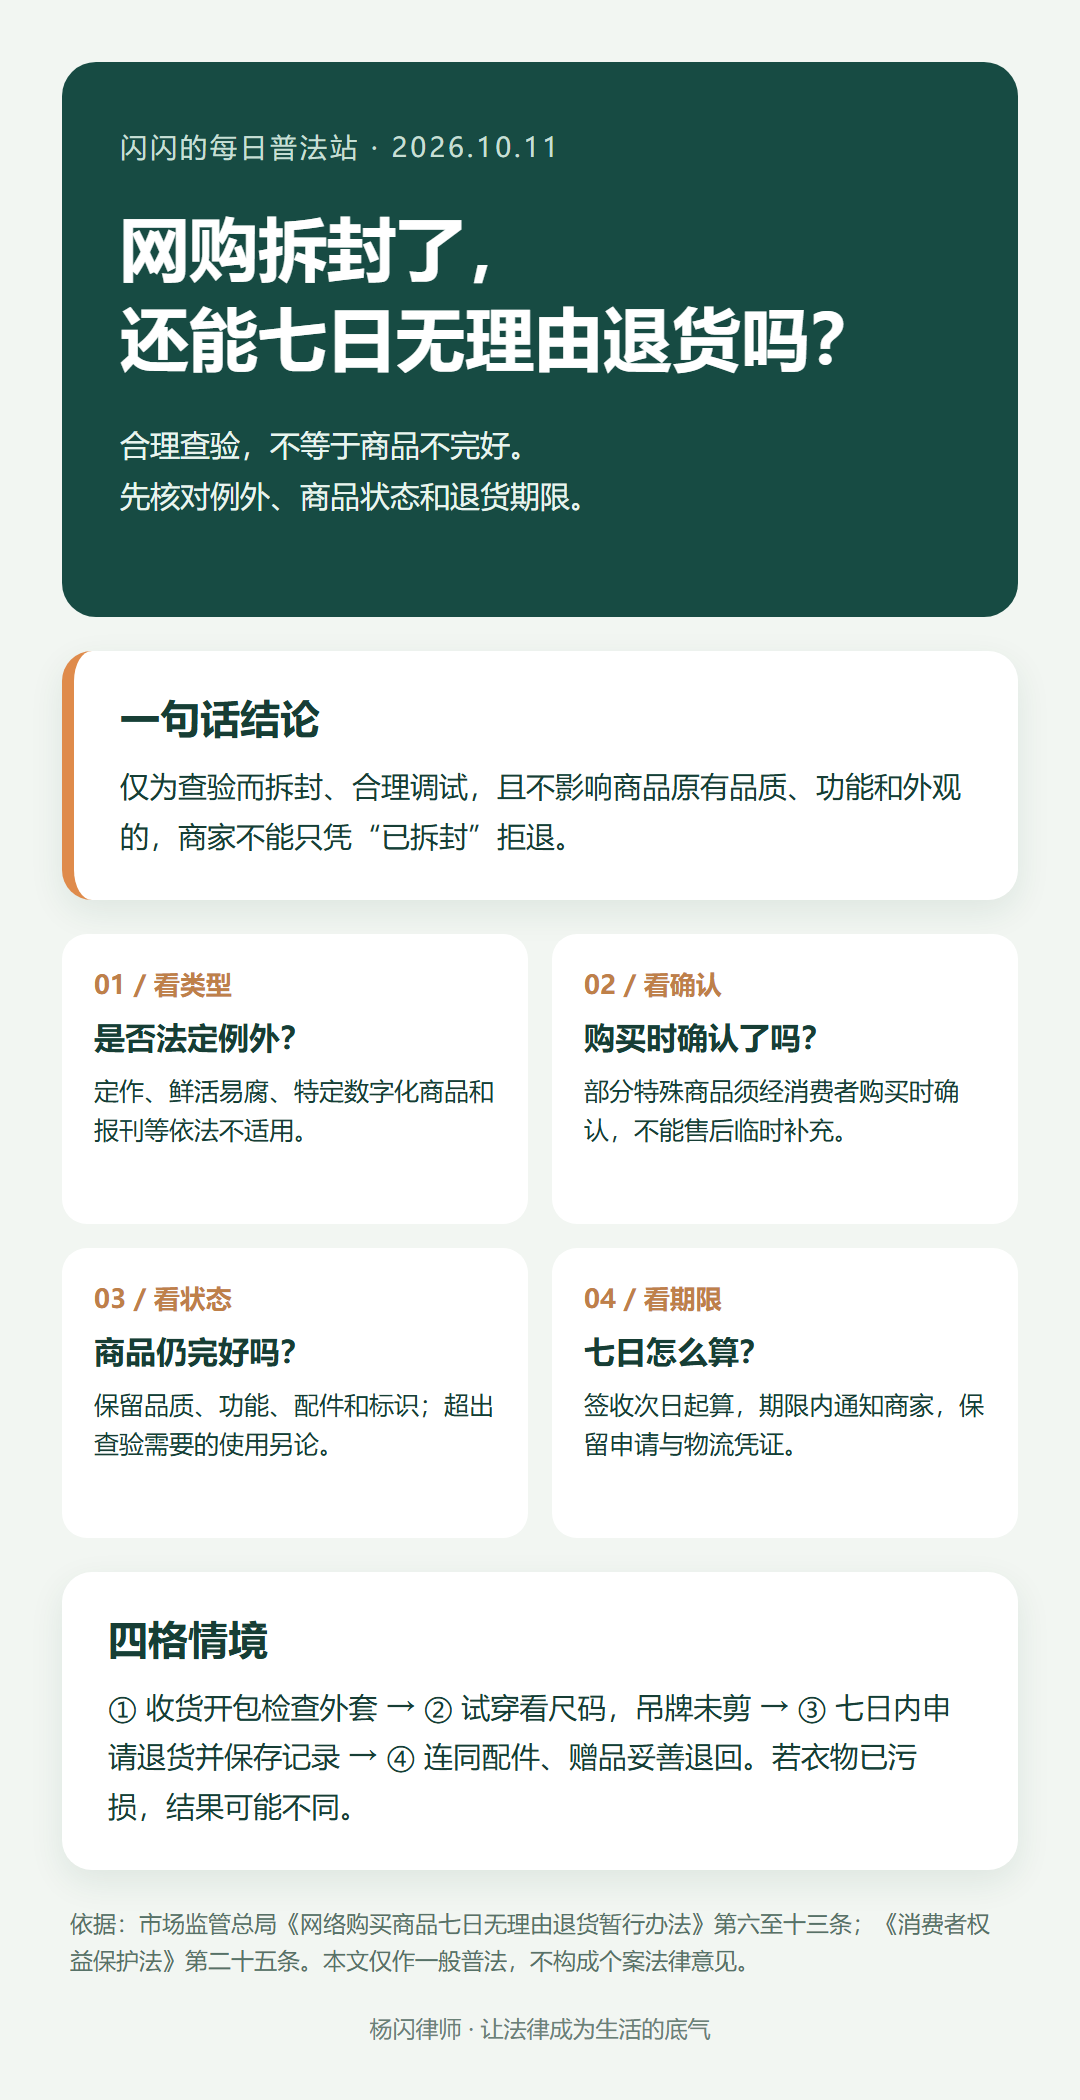
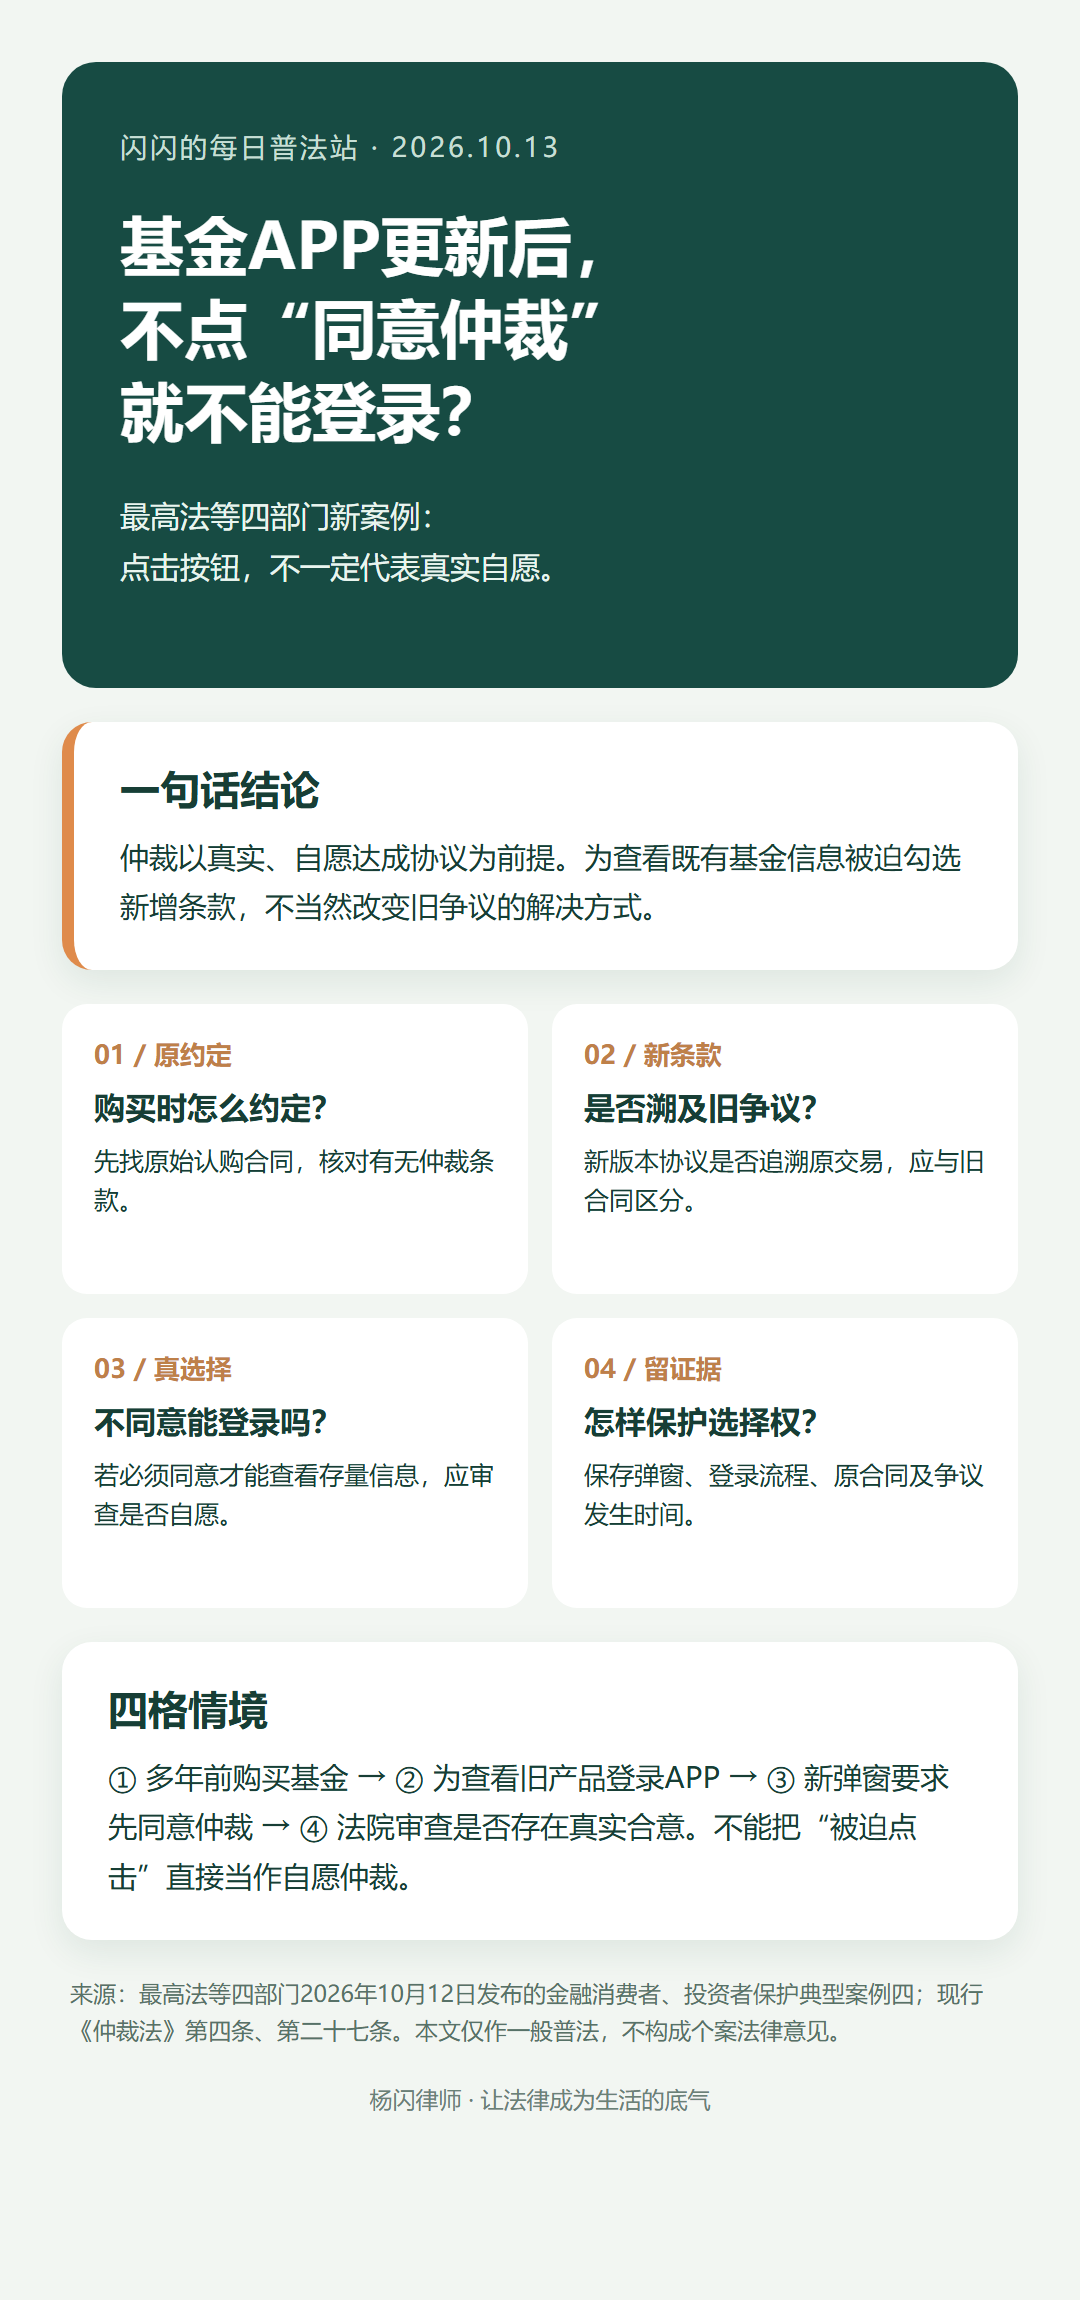
Publish 2026-10-13 arbitration consent explainer

diff --git a/index.html b/index.html
@@ -1,16 +1,13 @@
-<!doctype html>
-<html lang="zh-CN"><head><meta charset="utf-8"><meta name="viewport" content="width=device-width,initial-scale=1"><title>网购拆封了，还能七日无理由退货吗？</title></head>
-<body style="margin:0;background:#fff;color:#263238"><article style="max-width:677px;margin:auto;padding:24px 18px;font-size:16px;line-height:1.9;letter-spacing:.04em;font-family:-apple-system,BlinkMacSystemFont,'PingFang SC','Microsoft YaHei',sans-serif">
-<p style="font-size:14px;color:#8a765d">每日普法 · 2026年10月11日</p><h1 style="font-size:26px;line-height:1.35;color:#174b43">网购拆封了，<br>还能七日无理由退货吗？</h1>
-<p>收到网购商品，打开包装检查尺寸、配件或功能，随后发现不合适。商家说“拆封即不退”，这句话一定成立吗？本期从消费者权益保护法和市场监管总局规章出发，分清“合理查验”与“明显使用”。</p>
-<section style="margin:24px 0;padding:18px;border-left:5px solid #dd8b48;background:#fff7ed;border-radius:8px"><strong style="color:#9a4f19">先说结论</strong><p style="margin:8px 0 0">符合七日无理由退货条件的网购商品，仅为查验而打开包装，或者合理调试且不影响原有品质、功能和外观，不能单凭“已拆封”拒退；但法定例外、购买时确认的特定商品以及商品不完好等情况，需分别判断。</p></section>
-<img src="./正文插图-1.png" alt="消费者在家中合理查验网购商品并保留吊牌配件的示意图" style="display:block;width:100%;margin:28px 0;border-radius:12px">
-<h2 style="font-size:20px;color:#174b43;margin-top:30px">一、先看商品是否适用</h2><p>《消费者权益保护法》第二十五条确立远程购物七日无理由退货规则，同时排除消费者定作、鲜活易腐、在线下载或消费者拆封的音像制品和计算机软件等数字化商品，以及交付的报纸、期刊。其他因商品性质不宜退货的商品，须经消费者在购买时确认。</p><p>《网络购买商品七日无理由退货暂行办法》第七条进一步列出经购买时确认后可以不适用的类型，包括拆封后易影响安全健康或品质、一经激活或试用后价值贬损较大、已明示的临近保质期或有瑕疵商品。不能仅在售后临时补一句“不支持退货”。</p>
-<h2 style="font-size:20px;color:#174b43;margin-top:30px">二、拆封不等于“不完好”</h2><p>该办法第八条规定，商品保持原有品质、功能，商品本身、配件及商标标识齐全，视为完好。基于查验需要打开包装，或为确认品质、功能作合理调试，不影响商品完好。</p><p>但超过查验所需进行实际使用，导致较大价值贬损，可能构成不完好。例如衣物吊牌被剪、商品沾污受损；电子产品出现难以恢复的使用痕迹或不合理的个人数据留存，应结合商品类别判断，不能一概而论。</p>
-<section style="margin:24px 0;padding:18px;background:#f3f7f5;border-radius:10px"><strong style="color:#174b43">普法示例（虚构情境）</strong><p style="margin:8px 0 0">小周网购一件外套，收货后打开袋子试穿查看尺码，吊牌未剪、衣物无污损，并在期限内申请退货。若商品不存在法定或经购买时确认的例外，商家通常不能只凭“包装已开”拒绝；如小周已穿着外出并留下污损，结论可能不同。</p></section>
-<h2 style="font-size:20px;color:#174b43;margin-top:30px">三、期限和凭证怎么把握</h2><h3 style="font-size:18px;color:#315f58">01 计算时间</h3><p>依据该办法第十条，自消费者签收商品的次日起算七日；在期限内向经营者发出退货通知。不要等到第七天才开始查找售后入口。</p><h3 style="font-size:18px;color:#315f58">02 保存证据</h3><p>保留商品页面、购买时的确认提示、签收时间、商品与配件现状、售后申请及沟通记录。退货寄出后保存物流凭证。</p><h3 style="font-size:18px;color:#315f58">03 一并退回</h3><p>商品、配件和赠品原则上应一并退回。商家收到完好的退回商品后，应依办法第十三条在七日内返还已支付的商品价款。</p>
-<img src="./正文插图-2.png" alt="消费者发起退货并整理商品配件与物流凭证的示意图" style="display:block;width:100%;margin:28px 0;border-radius:12px">
-<section style="margin:26px 0;padding:18px;background:#174b43;color:#fff;border-radius:10px"><strong>记住三个判断点</strong><p style="margin:8px 0 0">商品是否适用？购买时是否确认例外？查验后是否仍然完好？再核对七日期限和退货凭证。</p></section>
-<h2 style="font-size:20px;color:#174b43;margin-top:30px">权威依据</h2><p><a href="https://www.samr.gov.cn/zw/zfxxgk/fdzdgknr/fgs/art/2023/art_26ca8fe29e184edd899fa0a7a060d935.html">市场监管总局：《网络购买商品七日无理由退货暂行办法》</a><br><a href="https://www.beijing.gov.cn/fuwu/bmfw/sy/jrts/202608/t20260827_4839317.html">中国消费者协会消费提示（北京市政府转发）</a><br><a href="https://scjgj.beijing.gov.cn/zwxx/scjgdt/202605/t20260506_4636434.html">北京市市场监管局：拆封与商品完好说明</a></p>
-<section style="margin-top:32px;padding:20px;background:#f4f1ea;border-radius:12px"><strong style="font-size:18px;color:#174b43">关于作者｜杨闪律师</strong><p style="margin:8px 0 0">中国执业律师，主要从事民商事争议、劳动与工伤、合同事务及涉刑案件办理，并参与湘江新区劳动仲裁工作；持续通过“闪闪的每日普法站”分享可核验、能落地的法律知识。</p></section><p style="margin-top:28px;font-size:13px;color:#777">本文仅作一般普法，不构成个案法律意见。</p>
-</article></body></html>
+<!doctype html><html lang="zh-CN"><head><meta charset="utf-8"><meta name="viewport" content="width=device-width,initial-scale=1"><title>基金APP更新后，不点“同意仲裁”就不能登录？</title></head><body style="margin:0;background:#fff;color:#263238"><article style="max-width:677px;margin:auto;padding:24px 18px;font-size:16px;line-height:1.9;letter-spacing:.04em;font-family:-apple-system,BlinkMacSystemFont,'PingFang SC','Microsoft YaHei',sans-serif">
+<p style="font-size:14px;color:#8a765d">每日普法 · 2026年10月13日</p><h1 style="font-size:26px;line-height:1.35;color:#174b43">基金APP更新后，<br>不点“同意仲裁”就不能登录？</h1>
+<p>10月12日，最高人民法院会同金融监管部门发布金融消费者、投资者权益保护典型案例。其中一案：投资人购买基金多年后，为查看存量产品信息登录APP，却被要求先接受新增仲裁条款。勾选按钮，是否就代表自愿放弃向法院起诉的选择？</p>
+<section style="margin:24px 0;padding:18px;border-left:5px solid #dd8b48;background:#fff7ed;border-radius:8px"><strong style="color:#9a4f19">先说结论</strong><p style="margin:8px 0 0">仲裁以真实、自愿达成协议为前提。不能仅凭用户为查看既有产品信息而被迫点击“同意”，就当然认定其同意把既有争议改交仲裁。是否存在有效仲裁协议，要结合订约时点、页面选择、提示方式和真实合意判断。</p></section>
+<img src="./正文插图-1.png" alt="投资人登录基金APP查看既有产品信息的示意插图" style="display:block;width:100%;margin:28px 0;border-radius:12px">
+<h2 style="font-size:20px;color:#174b43;margin-top:30px">一、真实案例：登录入口变成“同意入口”</h2><p>最高法公布的案例四中，方某于2015年线下认购基金产品。产品出现亏损后，方某起诉基金公司。基金公司随后主张：APP升级后，方某曾勾选含仲裁条款的服务协议，且条款写明溯及既往，因此纠纷不应由法院审理。</p><p>法院查明，APP页面只有“同意并签署”或“不同意并退出”两个选择；即使方某只是查看既有基金产品信息，也必须点击同意才能登录。法院认为，这种签署方式具有强制性，不能证明方某有通过仲裁解决本案争议的真实意思表示，故驳回基金公司的主管异议。二审维持原裁定。</p>
+<h2 style="font-size:20px;color:#174b43;margin-top:30px">二、法律关键：仲裁需要真实合意</h2><p>现行《仲裁法》第四条规定，选择仲裁应遵循自愿原则，达成仲裁协议；没有仲裁协议，一方申请仲裁的，仲裁机构不予受理。第二十七条要求仲裁协议具有请求仲裁的意思表示、仲裁事项和选定的仲裁机构。</p><p>因此，阅读一个弹窗、看到加粗字体或点击按钮，并非判断合意的全部。尤其当平台控制查看既有交易信息的唯一入口，用户不同意就无法继续使用时，应审查选择是否真正自由，以及新增条款是否被用于追溯改变既有纠纷的解决方式。</p>
+<section style="margin:24px 0;padding:18px;background:#f3f7f5;border-radius:10px"><strong style="color:#174b43">争议焦点</strong><p style="margin:8px 0 0">原认购时有没有仲裁约定？后续APP条款是否针对既有争议？用户是否有不接受新条款、仍能查看和处理存量产品的合理路径？基金公司能否证明投资人真实自愿同意？</p></section>
+<h2 style="font-size:20px;color:#174b43;margin-top:30px">三、投资人遇到类似情况怎么做</h2><h3 style="font-size:18px;color:#315f58">01 保存两个版本</h3><p>保留最初认购合同、风险揭示文件，也保存APP升级后的服务协议、弹窗截图、登录流程与时间记录，特别是“不同意”之后能否继续查看既有产品。</p><h3 style="font-size:18px;color:#315f58">02 分清旧交易与新交易</h3><p>新增争议解决条款是否明确追溯既有投资或已发生的争议？不要把后来签订的新交易协议，与旧产品的原始约定混为一谈。</p><h3 style="font-size:18px;color:#315f58">03 及时提出异议</h3><p>如对仲裁协议效力有争议，可依现行《仲裁法》第三十一条请求仲裁机构、仲裁庭决定或请求人民法院裁定，并注意该条规定的提出时间。具体程序和期限应结合案件状态核对。</p>
+<img src="./正文插图-2.png" alt="对照原始合同与更新后的APP条款的示意插图" style="display:block;width:100%;margin:28px 0;border-radius:12px">
+<section style="margin:26px 0;padding:18px;background:#174b43;color:#fff;border-radius:10px"><strong>记住</strong><p style="margin:8px 0 0">仲裁不是APP单方设置的默认通道。核对原协议、后续页面的真实选择空间和争议发生时间，再判断是否达成有效仲裁协议。</p></section>
+<h2 style="font-size:20px;color:#174b43;margin-top:30px">权威来源</h2><p><a href="https://www.court.gov.cn/zixun/xiangqing/513941.html">最高法等四部门：金融消费者、投资者权益保护典型案例（案例四）</a><br><a href="https://legalinfo.moj.gov.cn/pub/sfbzhfx/zt/2025nzt0120/xcgvxxddzcf/202509/t20250915_525094.html">现行《中华人民共和国仲裁法》第四条、第二十七条、第三十一条</a></p>
+<section style="margin-top:32px;padding:20px;background:#f4f1ea;border-radius:12px"><strong style="font-size:18px;color:#174b43">关于作者｜杨闪律师</strong><p style="margin:8px 0 0">中国执业律师，主要从事民商事争议、劳动与工伤、合同事务及涉刑案件办理，并参与湘江新区劳动仲裁工作；持续通过“闪闪的每日普法站”分享可核验、能落地的法律知识。</p></section><p style="margin-top:28px;font-size:13px;color:#777">本文仅作一般普法，不构成个案法律意见。</p></article></body></html>

diff --git a/服务号精简稿.md b/服务号精简稿.md
@@ -1,16 +1,18 @@
-# 网购拆封了，还能七日无理由退货吗？
+# 基金APP更新后，不点“同意仲裁”就不能登录？
 
-**核心结论：可以合理查验，不能把“拆封”一概等同于“不完好”。**但商品是否属于例外、购买时是否确认、查验后是否仍完好，都要分别核对。
+**核心结论：仲裁需要真实、自愿达成的协议。**为查看既有基金信息，被要求先勾选新增仲裁条款，并不当然意味着投资人自愿把旧争议交给仲裁。
 
-1. 先确认商品类型。消费者定作、鲜活易腐、已下载或拆封的特定数字化商品、报刊等依法不适用；另有部分商品经购买时确认后可以不适用。
-2. 合理打开包装、试穿或调试，只要不影响原有品质、功能、外观，商品本身、配件和标识齐全，原则上不因“已拆封”失去退货条件。
-3. 超出查验需要的使用造成明显价值贬损，例如吊牌剪除、污损或难以恢复的使用痕迹，可能影响退货。
-4. 签收次日起算七日，期限内通知商家；保留商品页面、确认提示、聊天记录和退货物流凭证。
+最高法等四部门10月12日发布的真实案例中，方某2015年购买基金，后来因亏损起诉。基金公司称他登录升级后的APP时同意了追溯既往的仲裁条款；但APP只有“同意并签署”与“不同意并退出”，不点击就无法查看存量产品。法院认为现有证据不能证明真实仲裁合意，驳回基金公司异议，二审维持。
 
-**普法示例（虚构）：**网购外套仅试穿查看尺码，吊牌完整、无污损，商家不能只凭包装已打开拒退；若已穿着外出并损坏，需另行判断。
+**判断四点：**
 
-依据：[市场监管总局《网络购买商品七日无理由退货暂行办法》](https://www.samr.gov.cn/zw/zfxxgk/fdzdgknr/fgs/art/2023/art_26ca8fe29e184edd899fa0a7a060d935.html)；[中消协消费提示](https://www.beijing.gov.cn/fuwu/bmfw/sy/jrts/202608/t20260827_4839317.html)。
+1. 原认购合同有无仲裁约定？
+2. 新条款是否意图追溯旧交易或已发生争议？
+3. 不同意时，能否继续查看既有产品信息？
+4. 是否存在真实自愿的仲裁意思表示及明确的仲裁事项、机构？
 
-[阅读全文](https://shanshan-daily-law.s3546949.chatgpt.site/downloads/2026-10-11/%E8%AE%A2%E9%98%85%E5%8F%B7%E6%B7%B1%E5%BA%A6%E7%A8%BF.html)
+保存原合同、APP弹窗和登录流程截图。争议发生后应及时核对仲裁协议效力及提出异议的时间要求。
+
+来源：[最高法等四部门典型案例（案例四）](https://www.court.gov.cn/zixun/xiangqing/513941.html)；[现行《仲裁法》](https://legalinfo.moj.gov.cn/pub/sfbzhfx/zt/2025nzt0120/xcgvxxddzcf/202509/t20250915_525094.html)。[阅读全文](https://shanshan-daily-law.s3546949.chatgpt.site/downloads/2026-10-13/%E8%AE%A2%E9%98%85%E5%8F%B7%E6%B7%B1%E5%BA%A6%E7%A8%BF.html)
 
 本文仅作一般普法，不构成个案法律意见。
